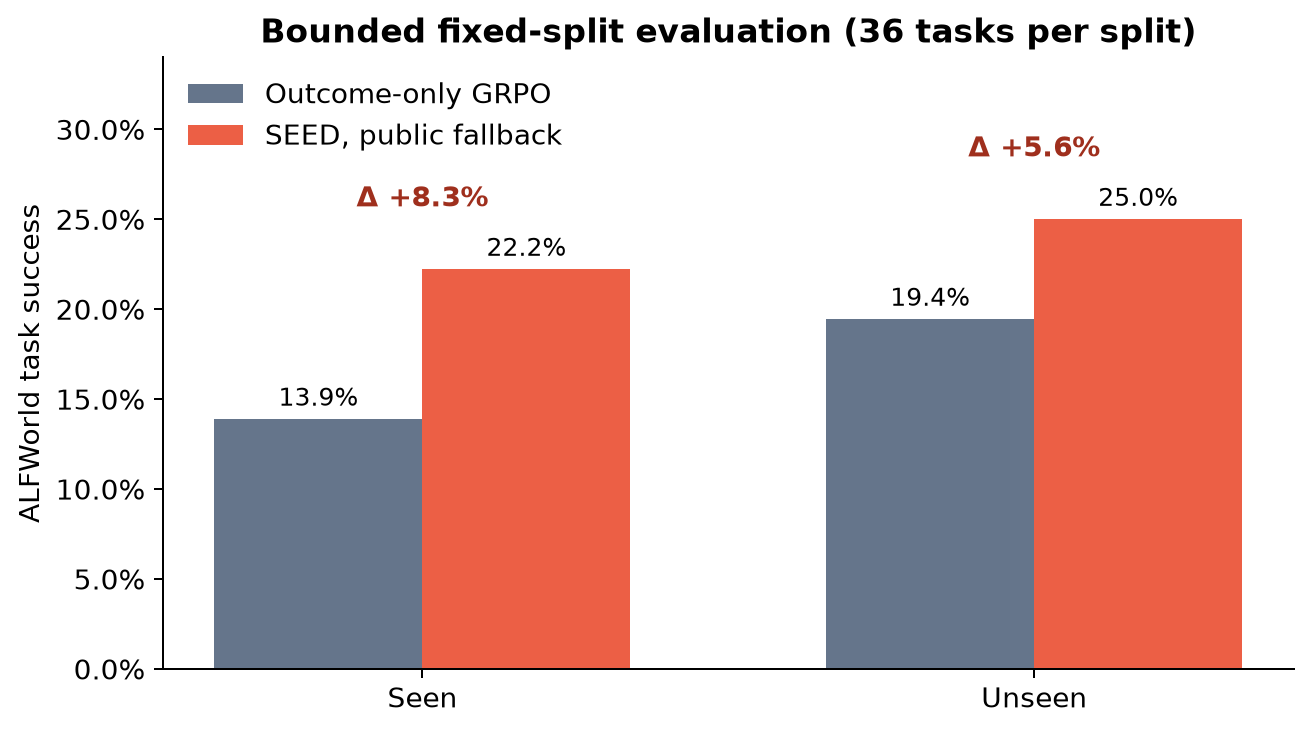
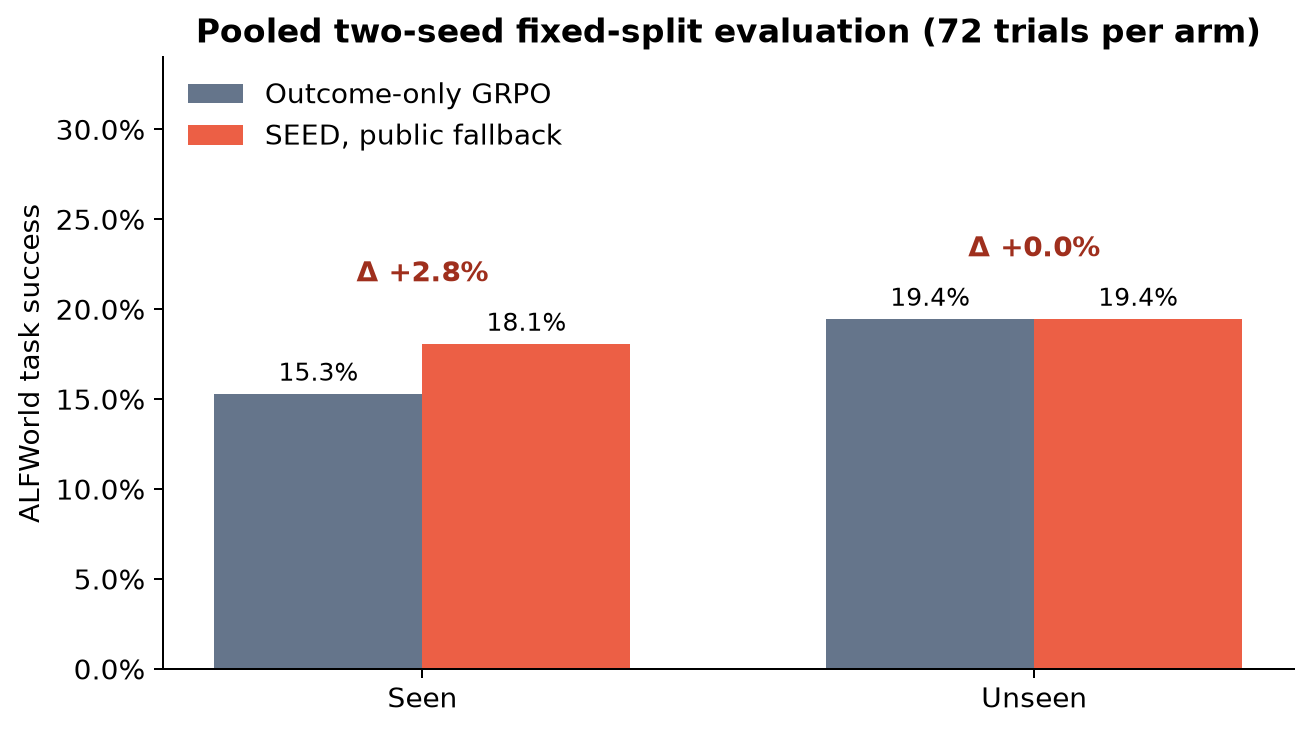
Publish two-seed SEED reproduction evidence

diff --git a/notebooks/seed_reproduction.py b/notebooks/seed_reproduction.py
@@ -25,11 +25,11 @@ def _(mo):
     mo.md(r"""
     # SEED on bounded ALFWorld: measured evidence first
 
-    **Partial reproduction of arXiv:2607.14777.** In matched 40-update
-    Qwen3-1.7B runs, confidence-gated on-policy distillation improved fixed
-    ALFWorld success from **5/36 to 8/36 seen** and **7/36 to 9/36 unseen**.
-    The early-training curve moved in the opposite direction: its mean was
-    12.3% for SEED versus 14.5% for outcome-only GRPO.
+    **Partial reproduction of arXiv:2607.14777.** Across two matched
+    40-update Qwen3-1.7B seeds, confidence-gated on-policy distillation moved
+    pooled fixed seen success from **11/72 to 13/72**, while unseen success
+    tied at **14/72**. The two-seed early-training curve moved in the opposite
+    direction: its mean was 11.9% for SEED versus 15.0% for outcome-only GRPO.
 
     This notebook embeds the completed Kubernetes evidence. It does not ask
     you to rerun expensive training to see the result.
@@ -40,15 +40,15 @@ def _(mo):
 @app.cell
 def _():
     fixed_rows = [
-        {"split": "Seen", "method": "Outcome-only GRPO", "success": 0.138889, "count": "5/36"},
-        {"split": "Seen", "method": "SEED, public fallback", "success": 0.222222, "count": "8/36"},
-        {"split": "Unseen", "method": "Outcome-only GRPO", "success": 0.194444, "count": "7/36"},
-        {"split": "Unseen", "method": "SEED, public fallback", "success": 0.250000, "count": "9/36"},
+        {"split": "Seen", "method": "Outcome-only GRPO", "success": 0.152778, "count": "11/72"},
+        {"split": "Seen", "method": "SEED, public fallback", "success": 0.180556, "count": "13/72"},
+        {"split": "Unseen", "method": "Outcome-only GRPO", "success": 0.194444, "count": "14/72"},
+        {"split": "Unseen", "method": "SEED, public fallback", "success": 0.194444, "count": "14/72"},
     ]
     curve_rows = []
     updates = [0, 5, 10, 15, 20, 25, 30, 35, 40]
-    grpo = [0.042, 0.104, 0.146, 0.146, 0.104, 0.167, 0.188, 0.167, 0.229]
-    seed = [0.042, 0.083, 0.021, 0.125, 0.146, 0.146, 0.146, 0.188, 0.208]
+    grpo = [0.0625, 0.1041, 0.1876, 0.1668, 0.1458, 0.1877, 0.1461, 0.1252, 0.2083]
+    seed = [0.0521, 0.1146, 0.0834, 0.1458, 0.1459, 0.1251, 0.1146, 0.1253, 0.1457]
     for step, grpo_value, seed_value in zip(updates, grpo, seed):
         curve_rows.extend(
             [
@@ -75,9 +75,9 @@ def _(alt, fixed_rows, mo):
             column=alt.Column("split:N", title=None),
             tooltip=["split:N", "method:N", alt.Tooltip("success:Q", format=".1%"), "count:N"],
         )
-        .properties(width=240, height=300, title="Fixed 36-task evaluations")
+        .properties(width=240, height=300, title="Pooled two-seed fixed evaluations")
     )
-    mo.vstack([final_chart, mo.md("Seen **+8.3 points** · unseen **+5.6 points** for SEED.")])
+    mo.vstack([final_chart, mo.md("Seen **+2.8 points** · unseen **0.0 points** for SEED.")])
     return
 
 
@@ -101,7 +101,7 @@ def _(alt, curve_rows, mo):
         [
             mo.md("## The endpoint gain did not come with early sample efficiency"),
             curve_chart,
-            mo.callout("Curve mean: GRPO 14.5%, SEED 12.3% (−2.2 points).", kind="warn"),
+            mo.callout("Two-seed curve mean: GRPO 15.0%, SEED 11.9% (−3.1 points).", kind="warn"),
         ]
     )
     return
@@ -136,20 +136,20 @@ def _():
         {
             "claim": "Seen success",
             "paper": "75.0% GRPO → 91.8% SEED (+16.8 pt)",
-            "observed": "13.9% → 22.2% (+8.3 pt)",
-            "assessment": "directionally aligned; partial",
+            "observed": "pooled 15.3% → 18.1% (+2.8 pt)",
+            "assessment": "weak direction; partial",
         },
         {
             "claim": "Early sample efficiency",
             "paper": "SEED higher across training fractions",
-            "observed": "curve mean 14.5% GRPO vs 12.3% SEED",
+            "observed": "2-seed curve mean 15.0% GRPO vs 11.9% SEED",
             "assessment": "not aligned in this setup",
         },
         {
             "claim": "Unseen split",
             "paper": "70.9% GRPO → 86.2% SEED (+15.3 pt)",
-            "observed": "19.4% → 25.0% (+5.6 pt)",
-            "assessment": "directionally aligned; partial",
+            "observed": "pooled 19.4% → 19.4% (0.0 pt)",
+            "assessment": "inconclusive under this setup",
         },
     ]
     return (claims,)
@@ -255,11 +255,12 @@ def _(mo):
 
     Other downscaling: Qwen3-1.7B instead of Qwen2.5-3B, 40 instead of 150
     updates, group size 4 instead of 8, 16 bounded training tasks, 36 tasks per
-    final split, and one seed.
+    final split per seed, and two full causal seeds.
 
     **Compute:** Kubernetes; NVIDIA RTX PRO 6000 Blackwell; 8 GPUs per arm;
-    16 peak concurrent GPUs. GRPO took 1.946944 h and primary SEED took
-    2.145278 h.
+    16 peak concurrent GPUs. The four full causal runs took 1.946944 h and
+    1.969167 h for GRPO, and 2.145278 h and 2.178611 h for SEED. The measured
+    reproduction window was 7.330663 wall hours.
 
     **Sources:** [paper](https://arxiv.org/abs/2607.14777) ·
     [authors' code](https://github.com/jinyangwu/SEED) ·

diff --git a/reports/seed_reproduction/plot_results.py b/reports/seed_reproduction/plot_results.py
@@ -17,7 +17,7 @@ plt.rcParams.update({"font.size": 11, "axes.titleweight": "bold", "figure.dpi": 
 
 
 def save_final_split() -> None:
-    fixed = DATA["bounded_training"]["fixed_evaluation"]
+    fixed = DATA["bounded_training"]["two_seed_pooled"]
     labels = ["Seen", "Unseen"]
     grpo = [fixed["seen"]["grpo"]["rate"], fixed["unseen"]["grpo"]["rate"]]
     seed = [fixed["seen"]["seed_deterministic"]["rate"], fixed["unseen"]["seed_deterministic"]["rate"]]
@@ -34,7 +34,7 @@ def save_final_split() -> None:
     ax.set_ylim(0, 0.34)
     ax.yaxis.set_major_formatter(PercentFormatter(1))
     ax.set_ylabel("ALFWorld task success")
-    ax.set_title("Bounded fixed-split evaluation (36 tasks per split)")
+    ax.set_title("Pooled two-seed fixed-split evaluation (72 trials per arm)")
     ax.legend(frameon=False, loc="upper left")
     ax.spines[["top", "right"]].set_visible(False)
     fig.tight_layout()
@@ -47,16 +47,23 @@ def save_training_curve() -> None:
     x = bounded["updates"]
     grpo = bounded["trainer_validation"]["grpo"]
     seed = bounded["trainer_validation"]["seed_deterministic"]
+    second = bounded["second_seed"]["trainer_validation"]
+    grpo_mean = [(a + b) / 2 for a, b in zip(grpo, second["grpo"])]
+    seed_mean = [(a + b) / 2 for a, b in zip(seed, second["seed_deterministic"])]
     fig, ax = plt.subplots(figsize=(7.4, 4.2))
-    ax.plot(x, grpo, marker="o", linewidth=2.3, color=COLORS["grpo"], label="Outcome-only GRPO")
-    ax.plot(x, seed, marker="o", linewidth=2.3, color=COLORS["seed"], label="SEED, public fallback")
+    ax.plot(x, grpo, linewidth=1.1, color=COLORS["grpo"], alpha=0.25)
+    ax.plot(x, second["grpo"], linewidth=1.1, color=COLORS["grpo"], alpha=0.25)
+    ax.plot(x, seed, linewidth=1.1, color=COLORS["seed"], alpha=0.25)
+    ax.plot(x, second["seed_deterministic"], linewidth=1.1, color=COLORS["seed"], alpha=0.25)
+    ax.plot(x, grpo_mean, marker="o", linewidth=2.5, color=COLORS["grpo"], label="Outcome-only GRPO, 2-seed mean")
+    ax.plot(x, seed_mean, marker="o", linewidth=2.5, color=COLORS["seed"], label="SEED, 2-seed mean")
     ax.set_xlim(0, 40)
     ax.set_ylim(0, 0.27)
     ax.yaxis.set_major_formatter(PercentFormatter(1))
     ax.set_xlabel("RL update")
     ax.set_ylabel("48-task trainer-validation success")
     ax.set_title("Early-training curve: the auxiliary signal did not improve area")
-    ax.text(1, 0.245, "curve mean: GRPO 14.5% · SEED 12.3%", fontsize=10)
+    ax.text(1, 0.245, "2-seed curve mean: GRPO 15.0% · SEED 11.9%", fontsize=10)
     ax.grid(axis="y", alpha=0.2)
     ax.legend(frameon=False, loc="lower right")
     ax.spines[["top", "right"]].set_visible(False)

diff --git a/reports/seed_reproduction/report.md b/reports/seed_reproduction/report.md
@@ -2,7 +2,7 @@
 
 ![Fixed seen and unseen ALFWorld success](images/final_split_success.png)
 
-**Assessment: partially reproduced.** On matched 40-update Qwen3-1.7B runs, confidence-gated on-policy distillation improved fixed seen-split ALFWorld success from 5/36 to 8/36 (+8.3 percentage points) and unseen-split success from 7/36 to 9/36 (+5.6 points). Those directions agree with the paper, but the early-training curve favored outcome-only GRPO by 2.2 points on average. The experiment is deliberately smaller than the paper and substitutes a public Qwen3 analyzer plus deterministic fallback for the unavailable GLM-5.2 annotations.
+**Assessment: partially reproduced.** Across two matched 40-update Qwen3-1.7B seeds, confidence-gated on-policy distillation raised pooled fixed seen-split success from 11/72 to 13/72 (+2.8 percentage points), but held-out success tied at 14/72 and the two-seed early-training curve favored outcome-only GRPO by 3.1 points. Seed 1 was positive on both endpoints; seed 2 was negative on both. The weak pooled seen direction agrees with the paper, while the held-out and early-efficiency claims are inconclusive or not aligned under this smaller public-analyzer reconstruction.
 
 [![Open in molab](https://marimo.io/molab-shield.svg)](https://molab.marimo.io/github/alphaXiv/seed-self-evolving-on-policy-distillation-for-ag/blob/main/notebooks/seed_reproduction.py)
 
@@ -27,7 +27,7 @@ This reproduction tests the causal comparison rather than only re-running the au
 | Analyzer | GLM-5.2 annotations | public Qwen3 policy + deterministic task-family fallback |
 | Compute | 8 × A800 | Kubernetes; 8 GPUs per arm, 16 peak concurrent NVIDIA RTX PRO 6000 Blackwell GPUs |
 
-The outcome-only run took **7,009 seconds (1.946944 h)** and the primary SEED run took **7,723 seconds (2.145278 h)**. Both ran on Kubernetes with 8 NVIDIA RTX PRO 6000 Blackwell GPUs. The two arms overlapped, and the run history records **16 GPUs requested concurrently**.
+The two outcome-only runs took **7,009 seconds (1.946944 h)** and **7,089 seconds (1.969167 h)**; the two SEED runs took **7,723 seconds (2.145278 h)** and **7,843 seconds (2.178611 h)**. Every arm ran on Kubernetes with 8 NVIDIA RTX PRO 6000 Blackwell GPUs. Matched arms overlapped, and the run history records **16 GPUs requested concurrently**. From the first successful Kubernetes run start to the last evidence log, the measured reproduction window was **7.330663 wall hours**.
 
 ## Implementation
 
@@ -51,15 +51,17 @@ The SEED run exercised a real auxiliary path. At update 38, for example, it form
 | Evidence | Outcome-only GRPO | SEED | Difference | Assessment |
 |---|---:|---:|---:|---|
 | Paper, Qwen2.5-3B | 75.0% | 91.8% | +16.8 pt | paper reference |
-| Fixed seen tasks, Qwen3-1.7B | 13.9% (5/36) | 22.2% (8/36) | **+8.3 pt** | directionally aligned; partial |
+| Seed 1 fixed seen tasks | 13.9% (5/36) | 22.2% (8/36) | +8.3 pt | aligned direction |
+| Seed 2 fixed seen tasks | 16.7% (6/36) | 13.9% (5/36) | −2.8 pt | not aligned in this seed |
+| **Pooled two-seed seen** | **15.3% (11/72)** | **18.1% (13/72)** | **+2.8 pt** | **weak direction; partial** |
 
-The bounded run shows the claimed direction at roughly half the paper's reported gain. With only 36 fixed tasks and one training seed, the descriptive standard error of the between-arm difference is about 9 points; this run establishes a positive measured effect under the selected manifest, not a precise population estimate.
+The first seed showed roughly half the paper's gain, but the second reversed it. Pooling counts leaves only a 2.8-point seen advantage. With two seeds and 72 task trials per arm, this is a small descriptive direction, not a precise population estimate.
 
 ### Claim 2: early sample efficiency
 
 ![Trainer-validation learning curve](images/training_curve.png)
 
-The paper's SEED curve is higher throughout its reported training fractions. Here, the trapezoidal mean of the 48-task trainer-validation curve was **14.5% for GRPO and 12.3% for SEED** (−2.2 points). SEED briefly led at updates 20 and 35, then ended at 20.8% versus 22.9% for GRPO. Under this bounded setup, the early-efficiency part of the claim is **not aligned**.
+The paper's SEED curve is higher throughout its reported training fractions. Here, the two-seed mean of each arm's trapezoidal 48-task validation curve was **15.0% for GRPO and 11.9% for SEED** (−3.1 points). The seed-wise differences were −2.2 and −3.9 points. Under this bounded setup, the early-efficiency claim is **not aligned**.
 
 These validation points use temperature 0.4 and are noisy; the fixed final task manifests below are the stronger endpoint evidence.
 
@@ -68,9 +70,11 @@ These validation points use temperature 0.4 and are noisy; the fixed final task 
 | Evidence | Outcome-only GRPO | SEED | Difference | Assessment |
 |---|---:|---:|---:|---|
 | Paper unseen split | 70.9% | 86.2% | +15.3 pt | paper reference |
-| Fixed unseen tasks | 19.4% (7/36) | 25.0% (9/36) | **+5.6 pt** | directionally aligned; partial |
+| Seed 1 fixed unseen tasks | 19.4% (7/36) | 25.0% (9/36) | +5.6 pt | aligned direction |
+| Seed 2 fixed unseen tasks | 19.4% (7/36) | 13.9% (5/36) | −5.6 pt | not aligned in this seed |
+| **Pooled two-seed unseen** | **19.4% (14/72)** | **19.4% (14/72)** | **0.0 pt** | **inconclusive under this setup** |
 
-The positive effect survives the held-out split, but is smaller than the paper's and uncertain at this task count. The result should be read as evidence from the specified Qwen3-1.7B/public-analyzer substitution, not as an estimate of the original GLM-annotated 150-update experiment.
+The positive held-out effect did not survive the second seed; pooled counts are exactly tied. This bounded reconstruction therefore does not show a retained held-out advantage. That divergence is evidence about the specified Qwen3-1.7B/public-analyzer substitution, not a judgment on the original GLM-annotated 150-update experiment.
 
 ## Sensitivity checks
 
@@ -82,6 +86,8 @@ Two completed variations probe whether the endpoint result depends on the auxili
 | SEED λ=0.001, 20 updates | 22.2% (8/36) | 19.4% (7/36) | 8.8% | +5.6 pt seen, +2.8 pt unseen, +1.3 pt curve mean |
 | Outcome-only GRPO, 40 updates | 13.9% (5/36) | 19.4% (7/36) | 14.5% | primary control |
 | SEED deterministic fallback, 40 updates | 22.2% (8/36) | 25.0% (9/36) | 12.3% | strongest fixed endpoint |
+| Outcome-only GRPO, seed 2 | 16.7% (6/36) | 19.4% (7/36) | 15.5% | robustness control |
+| SEED deterministic fallback, seed 2 | 13.9% (5/36) | 13.9% (5/36) | 11.6% | endpoint direction reversed |
 | SEED raw-hindsight fallback, 40 updates | 16.7% (6/36) | 16.7% (6/36) | 9.7% | weaker than the structured fallback |
 
 At 20 updates, the lower λ=0.001 signal improved both fixed endpoints and the mean validation curve over its matched outcome-only control. This is supportive but based on one short seed. At 40 updates, preserving the final 96 words of malformed Qwen3 hindsight produced only 6/36 successes on each split, versus 8/36 seen and 9/36 unseen for the concise deterministic task-family fallback. The raw arm still exercised OPD: at update 40, 1,773 teacher tokens were formed, 60/64 analyses used the raw fallback, 60.4% of response tokens were active, and 29.0% passed the confidence gate. The difference therefore reflects analyzer content rather than an accidentally disabled loss.
@@ -93,15 +99,15 @@ Before causal training, the same official ALFWorld evaluator compared the author
 ## Evidence boundaries
 
 - The analyzer substitution is the largest fidelity gap. The public Qwen3 model usually emitted useful prose that did not satisfy the released JSON parser; deterministic task-family skills are less specific than the paper's GLM-5.2 hindsight.
-- The experiment uses 40 rather than 150 updates, group size 4 rather than 8, 16 bounded training tasks, one seed, and 36 tasks per final split.
+- The experiment uses 40 rather than 150 updates, group size 4 rather than 8, 16 bounded training tasks, two full causal seeds, and 36 tasks per final split per seed.
 - Qwen3-1.7B is the requested smaller model; the paper's headline ALFWorld result uses Qwen2.5-3B.
 - Final checkpoints were evaluated inside their supervised Kubernetes jobs and the complete result JSON was preserved in OpenResearch terminal logs. No claim is made that the ephemeral training checkpoint itself was published.
 - All plotted values are transcribed in `data/results.json`; `plot_results.py` regenerates the figures. The source run identifiers remain in experiment descriptions and the data provenance block.
 
 ## Assessment
 
-The reproduction is **partial**: confidence-gated skill-induced OPD improved the primary fixed seen and unseen endpoints against matched outcome-only GRPO, and the lower-λ short run also improved its matched endpoints and curve mean. However, the primary 40-update early-training curve was worse, and raw public-analyzer hindsight lost the endpoint benefit. A full-scale reproduction still needs the original analyzer prompts/model (or a validated equivalent), Qwen2.5-3B, 150 updates, group size 8, broader task coverage, and multiple seeds.
+The reproduction is **partial**. The pooled seen endpoint retains a small +2.8-point SEED direction, and the lower-λ short run improved its matched endpoints and curve mean. However, seed 2 reversed both full-run endpoint effects, pooled held-out success tied exactly, both full seeds had worse early-curve area, and raw public-analyzer hindsight was weaker than the structured fallback. A full-scale reproduction still needs the original analyzer prompts/model (or a validated equivalent), Qwen2.5-3B, 150 updates, group size 8, broader task coverage, and more seeds.
 
-Relevant branches: [matched GRPO control](https://github.com/alphaXiv/seed-self-evolving-on-policy-distillation-for-ag/tree/orx/outcome-only-grpo-with-validated-sft-shard), [primary deterministic-fallback SEED](https://github.com/alphaXiv/seed-self-evolving-on-policy-distillation-for-ag/tree/orx/seed-opd-with-deterministic-online-analyzer-fall), [20-update GRPO control](https://github.com/alphaXiv/seed-self-evolving-on-policy-distillation-for-ag/tree/orx/outcome-only-grpo-20-update-endpoint), [λ=0.001 sensitivity](https://github.com/alphaXiv/seed-self-evolving-on-policy-distillation-for-ag/tree/orx/seed-opd-lambda-0-001-sensitivity), [raw-hindsight sensitivity](https://github.com/alphaXiv/seed-self-evolving-on-policy-distillation-for-ag/tree/orx/seed-raw-hindsight-with-regex-import), [released-checkpoint evaluator](https://github.com/alphaXiv/seed-self-evolving-on-policy-distillation-for-ag/tree/orx/released-seed-checkpoint), and [base-checkpoint evaluator](https://github.com/alphaXiv/seed-self-evolving-on-policy-distillation-for-ag/tree/orx/base-checkpoint-kubernetes-evaluation).
+Relevant branches: [matched GRPO control](https://github.com/alphaXiv/seed-self-evolving-on-policy-distillation-for-ag/tree/orx/outcome-only-grpo-with-validated-sft-shard), [primary deterministic-fallback SEED](https://github.com/alphaXiv/seed-self-evolving-on-policy-distillation-for-ag/tree/orx/seed-opd-with-deterministic-online-analyzer-fall), [seed-2 GRPO](https://github.com/alphaXiv/seed-self-evolving-on-policy-distillation-for-ag/tree/orx/outcome-only-grpo-seed-260714778), [seed-2 SEED](https://github.com/alphaXiv/seed-self-evolving-on-policy-distillation-for-ag/tree/orx/seed-deterministic-analyzer-seed-260714778), [20-update GRPO control](https://github.com/alphaXiv/seed-self-evolving-on-policy-distillation-for-ag/tree/orx/outcome-only-grpo-20-update-endpoint), [λ=0.001 sensitivity](https://github.com/alphaXiv/seed-self-evolving-on-policy-distillation-for-ag/tree/orx/seed-opd-lambda-0-001-sensitivity), [raw-hindsight sensitivity](https://github.com/alphaXiv/seed-self-evolving-on-policy-distillation-for-ag/tree/orx/seed-raw-hindsight-with-regex-import), [released-checkpoint evaluator](https://github.com/alphaXiv/seed-self-evolving-on-policy-distillation-for-ag/tree/orx/released-seed-checkpoint), and [base-checkpoint evaluator](https://github.com/alphaXiv/seed-self-evolving-on-policy-distillation-for-ag/tree/orx/base-checkpoint-kubernetes-evaluation).
 
 Sources: [paper (arXiv:2607.14777)](https://arxiv.org/abs/2607.14777), [authors' code](https://github.com/jinyangwu/SEED), and [released checkpoint](https://huggingface.co/Jinyang23/Seed-AlfWorld-3B).

diff --git a/README.md b/README.md
@@ -2,11 +2,11 @@
 
 This public repository reproduces the central ALFWorld claims from **SEED: Self-Evolving On-Policy Distillation for Agentic Reinforcement Learning** ([arXiv:2607.14777](https://arxiv.org/abs/2607.14777)).
 
-**Assessment: partially reproduced.** Against matched outcome-only GRPO, confidence-gated skill-induced on-policy distillation raised fixed seen success from **13.9% to 22.2% (+8.3 points)** and unseen success from **19.4% to 25.0% (+5.6 points)**. The paper reports +16.8 and +15.3 points, respectively. The bounded early-training curve did not align: mean validation success was **12.3% for SEED versus 14.5% for GRPO**.
+**Assessment: partially reproduced.** Across two matched seeds, confidence-gated skill-induced on-policy distillation raised pooled fixed seen success from **15.3% to 18.1% (+2.8 points)**, but pooled unseen success tied at **19.4%**, and the early-training curve favored GRPO (**15.0% versus 11.9%**). The paper reports +16.8 points seen, +15.3 points unseen, and better early efficiency. Seed 1 was positive on both endpoints; seed 2 reversed both effects.
 
 ![Fixed seen and unseen ALFWorld results](reports/seed_reproduction/images/final_split_success.png)
 
-The causal pair used Qwen3-1.7B, 40 updates, group size 4, 16 bounded training tasks, and 36 fixed tasks per final split. The paper used Qwen2.5-3B, 150 updates, and group size 8. Because the exact GLM-5.2 analyzer prompts/annotations were unavailable, this implementation documents a public Qwen3 analyzer substitution plus deterministic task-family fallback.
+The two causal pairs used Qwen3-1.7B, 40 updates, group size 4, 16 bounded training tasks, and 36 fixed tasks per split per seed. The paper used Qwen2.5-3B, 150 updates, and group size 8. Because the exact GLM-5.2 analyzer prompts/annotations were unavailable, this implementation documents a public Qwen3 analyzer substitution plus deterministic task-family fallback.
 
 - [Detailed technical report](reports/seed_reproduction/report.md)
 - [Tutorial-style marimo notebook](notebooks/seed_reproduction.py)
@@ -25,13 +25,15 @@ Every formal node uses the exact inherited command shown below. `main` is the pu
 | [Released SEED checkpoint](https://github.com/alphaXiv/seed-self-evolving-on-policy-distillation-for-ag/tree/orx/released-seed-checkpoint) | Evaluator-fidelity check on the authors' checkpoint | `bash .orx/run.sh` | 89.3% category-macro success; paper 91.8% | Kubernetes, 8 × NVIDIA RTX PRO 6000 Blackwell, 6m40s |
 | [Matched outcome-only GRPO](https://github.com/alphaXiv/seed-self-evolving-on-policy-distillation-for-ag/tree/orx/outcome-only-grpo-with-validated-sft-shard) | Shared SFT and bounded tasks; online analysis and OPD disabled | `bash .orx/run.sh` | 13.9% seen; 19.4% unseen | Kubernetes, 8 × NVIDIA RTX PRO 6000 Blackwell, 1.946944 h |
 | [Primary SEED](https://github.com/alphaXiv/seed-self-evolving-on-policy-distillation-for-ag/tree/orx/seed-opd-with-deterministic-online-analyzer-fall) | Add public analyzer fallback and confidence-gated OPD at λ=0.01 | `bash .orx/run.sh` | 22.2% seen; 25.0% unseen; endpoints positive, curve area negative | Kubernetes, 8 × NVIDIA RTX PRO 6000 Blackwell, 2.145278 h |
+| [GRPO seed 260714778](https://github.com/alphaXiv/seed-self-evolving-on-policy-distillation-for-ag/tree/orx/outcome-only-grpo-seed-260714778) | Change only trainer/environment seed | `bash .orx/run.sh` | 16.7% seen; 19.4% unseen; 15.5% curve mean | Kubernetes, 8 × NVIDIA RTX PRO 6000 Blackwell, 1.969167 h |
+| [SEED seed 260714778](https://github.com/alphaXiv/seed-self-evolving-on-policy-distillation-for-ag/tree/orx/seed-deterministic-analyzer-seed-260714778) | Change only trainer/environment seed | `bash .orx/run.sh` | 13.9% seen; 13.9% unseen; endpoint direction reversed | Kubernetes, 8 × NVIDIA RTX PRO 6000 Blackwell, 2.178611 h |
 | [20-update outcome-only GRPO](https://github.com/alphaXiv/seed-self-evolving-on-policy-distillation-for-ag/tree/orx/outcome-only-grpo-20-update-endpoint) | Match the shortened λ-sensitivity budget | `bash .orx/run.sh` | 16.7% seen; 16.7% unseen; 7.5% curve mean | Kubernetes, 8 × NVIDIA RTX PRO 6000 Blackwell, 1.111944 h |
 | [SEED λ=0.001 sensitivity](https://github.com/alphaXiv/seed-self-evolving-on-policy-distillation-for-ag/tree/orx/seed-opd-lambda-0-001-sensitivity) | Test whether weaker OPD better suits lower-fidelity fallback skills | `bash .orx/run.sh` | 22.2% seen; 19.4% unseen; positive versus matched 20-update control | Kubernetes, 8 × NVIDIA RTX PRO 6000 Blackwell, 1.213056 h |
 | [Raw-hindsight SEED, corrected](https://github.com/alphaXiv/seed-self-evolving-on-policy-distillation-for-ag/tree/orx/seed-raw-hindsight-with-regex-import) | Preserve Qwen3's unstructured hindsight instead of task-family replacement | `bash .orx/run.sh` | 16.7% seen; 16.7% unseen; weaker than structured fallback | Kubernetes, 8 × NVIDIA RTX PRO 6000 Blackwell, 2.171667 h |
 
 The raw-hindsight parent terminated before update 1 because its patch omitted `import re`; the linked corrected child changes only that import. Completed sensitivities show that λ=0.001 improved over its matched 20-update control, while unstructured raw hindsight was weaker than the primary concise fallback. Raw identifiers and full diagnostic histories are retained in OpenResearch experiment descriptions rather than this landing page.
 
-Peak requested concurrency was **16 NVIDIA RTX PRO 6000 Blackwell GPUs on Kubernetes**. The complete fixed-split result JSON and actual elapsed time are present in terminal logs; plotted transcriptions live in [results.json](reports/seed_reproduction/data/results.json), and [plot_results.py](reports/seed_reproduction/plot_results.py) regenerates both figures.
+Peak requested concurrency was **16 NVIDIA RTX PRO 6000 Blackwell GPUs on Kubernetes**. The measured reproduction window—from the first successful Kubernetes run start to the last evidence log—was **7.330663 wall hours**. Complete fixed-split JSON and per-run elapsed times are present in terminal logs; plotted transcriptions live in [results.json](reports/seed_reproduction/data/results.json), and [plot_results.py](reports/seed_reproduction/plot_results.py) regenerates both figures.
 
 ## Reproduction harness
 
